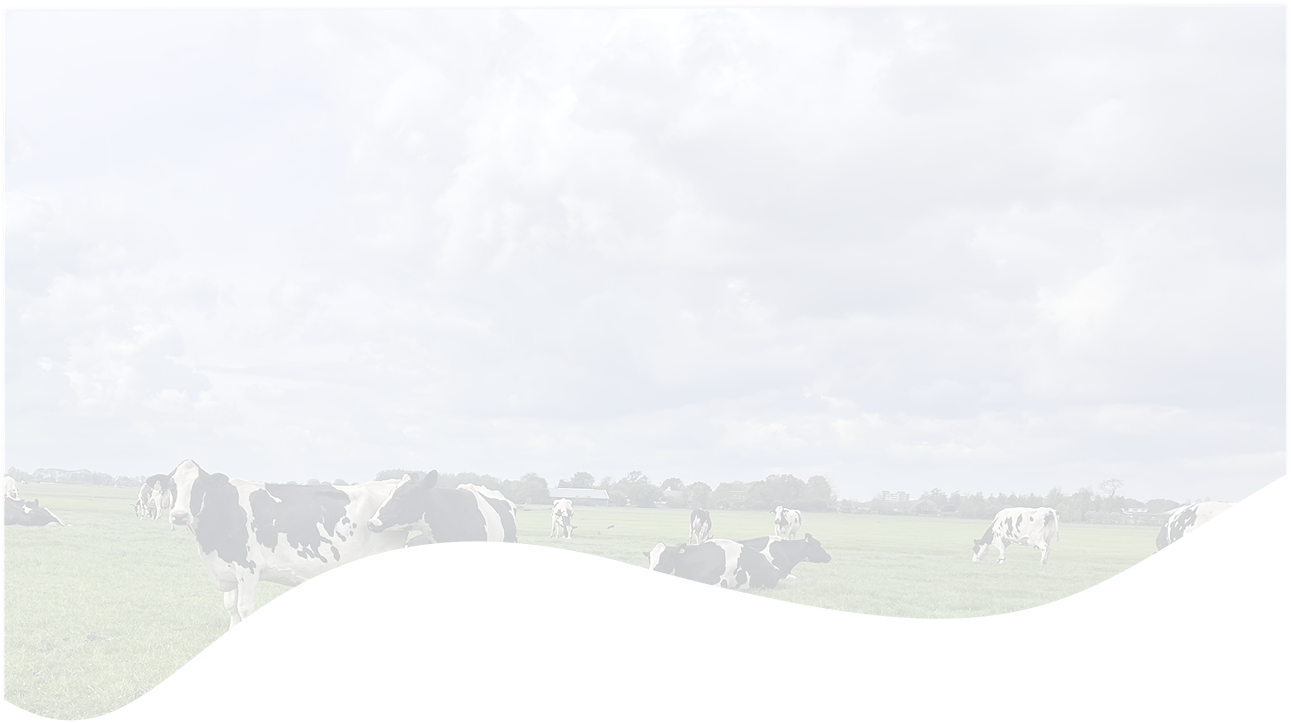
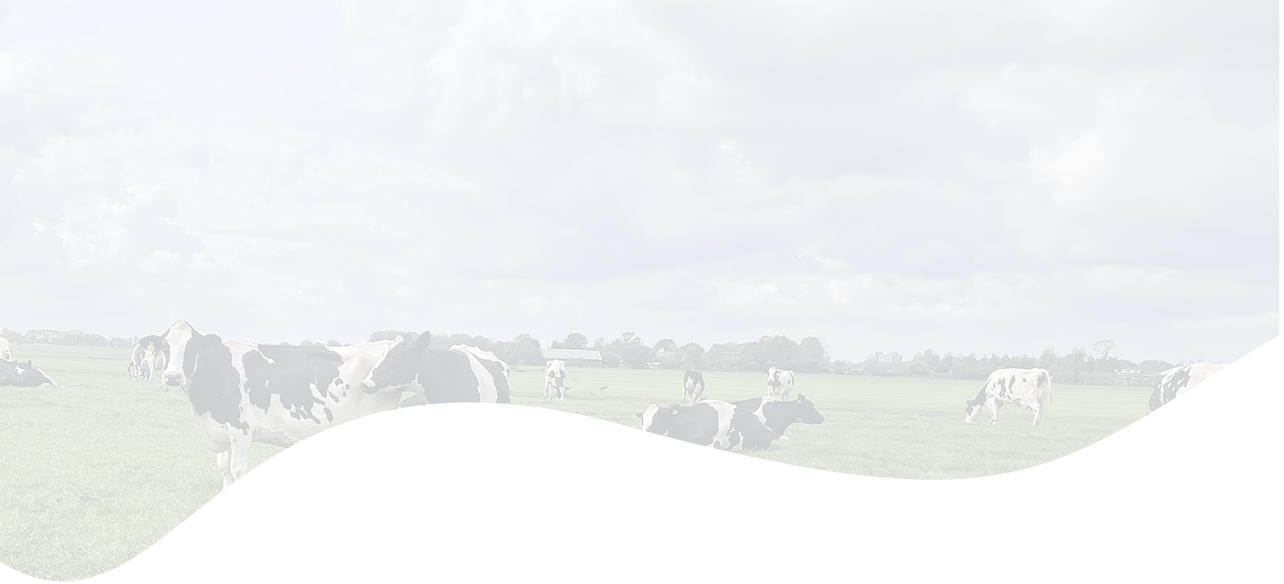
bezig-met-3e-section

Changed region(s): [[0.0, 0.5548, 0.9346, 1.0], [0.6542, 0.6781, 0.6854, 0.7089], [0.0, 0.9247, 0.0312, 0.9555]]

diff --git a/style.css b/style.css
@@ -25,24 +25,26 @@ body {
 
 /* header */
 .header {
-  position: absolute;
-  inset: 0 0 auto 0;
-  z-index: 10;
+  position: fixed;
+  top: 0;
+  left: 0;
+  width: 100%;
 
-  background-image: url("images/header-back.png");
-  background-repeat: no-repeat;
-  background-position: center;
-  background-size: 110% auto;
+  z-index: 1000;
 
   display: flex;
   justify-content: space-between;
-  align-items: flex-start;
+  align-items: center;
 
-  padding: 2rem 6vw;
+  padding: 1.5rem 6vw;
+
+  background-image: url("images/header-back.png");
+  background-size: cover;
+  background-position: center;
 }
 
 .logo {
-  width: clamp(8rem, 13vw, 12rem);
+  width: clamp(5rem, 10vw, 9rem);
   height: auto;
 }
 
@@ -82,30 +84,26 @@ body {
 .gedaanVisie {
   position: relative;
   min-height: 48rem;
+  padding: 10rem 15rem 0 10rem;
 
-  padding: 10rem 10vw 5rem;
-
-  background-image:
-    linear-gradient(rgba(255, 255, 255, 0.55), rgba(255, 255, 255, 0.55)),
-    url("images/landings-1.png");
+  background-image: url("images/landings-1.png");
+  background-size: 100% auto;
   background-repeat: no-repeat;
-  background-size: cover;
-  background-position: center top;
-
+  background-position: bottom center;
   overflow: hidden;
+  z-index: 2;
 }
 
-.gedaanVisie > p,
+.grutto-content p, .grutto-content h2, .gedaanVisie > p,
 .gedaanVisie > h1 {
   margin: 0;
   margin-left: 8vw;
-
   color: var(--color-blue);
   font-family: var(--font-title);
   font-style: italic;
 }
 
-.gedaanVisie > p {
+.subtitel p, .maatregelen > .subtitel , .gedaanVisie > p, .grutto-content p {
   font-size: 1.05rem;
   font-weight: 500;
 }
@@ -114,19 +112,26 @@ body {
   font-size: 1.8rem;
   font-weight: 900;
 }
+.maatregelen > h2 {
+ font-size: 1.6rem;
+  font-weight: 900;
+  color: var(--color-blue);
+}
 
 /* wolkenrij */
+
 .kennisWolken {
   display: flex;
   justify-content: space-between;
   align-items: flex-start;
-
-  gap: 3rem;
+  gap: 2rem;
   margin-top: 4rem;
+  padding-left: 5rem;
 }
 
 .kennisWolk {
-  width: clamp(14rem, 20vw, 21rem);
+  width: clamp(10rem, 26vw, 16rem);
+  position: relative;
 
   display: flex;
   flex-direction: column;
@@ -137,37 +142,59 @@ body {
 }
 
 .wolk-tekst {
-  position: relative;
+  position: absolute;
+  top: -2rem;
+  left: 50%;
   z-index: 2;
 
-  width: 120%;
-  min-height: 8rem;
-  margin-bottom: -3rem;
+  width: 105%;
+  min-height: 9rem;
 
-  display: flex;
-  flex-direction: column;
-  justify-content: center;
-  align-items: center;
+  transform: translateX(-50%);
+
+  display: grid;
+  grid-template-rows: 1fr auto 1fr;
+
+  padding: 1rem 2rem;
 
   background-image: url("images/real-cloud-2-wit.png");
   background-repeat: no-repeat;
   background-position: center;
-  background-size: contain;
+  background-size: 120%;
 }
+
+.kennisWolk img {
+  width: 85%;
+  display: block;
+  margin-top: 4rem;
+}
+
+
 
 .wolk-tekst p {
   margin: 0;
-  font-family: var(--font-main);
-  font-weight: 700;
-  line-height: 1.1;
+  color: var(--color-blue);
+}
+
+.wolk-tekst p:first-child {
+  justify-self: start;
+  align-self: end;
 }
 
 .groter-tekst-in-de-wolk {
+  justify-self: center;
+  align-self: end;
+ text-wrap: nowrap;
+
   font-family: var(--font-title);
   font-size: clamp(2.2rem, 3vw, 3.4rem);
   font-weight: 900;
   font-style: italic;
-  text-shadow: 0.08em 0.08em 0 rgba(23, 59, 143, 0.18);
+}
+
+.wolk-tekst p:last-child {
+  justify-self: end;
+  align-self: start;
 }
 
 .kennisWolk img {
@@ -176,10 +203,12 @@ body {
 }
 
 /* product button */
+.maatregelen a,
+.grutto-content a,
 .gedaanVisie > a {
   position: absolute;
   right: 12vw;
-  bottom: 3.5rem;
+  margin-top: 1rem;
 
   display: inline-flex;
   align-items: center;
@@ -199,4 +228,110 @@ body {
   font-family: var(--font-main);
   font-weight: 800;
   text-decoration: none;
+}
+
+
+/*grutto vliegt*/
+
+.grutto-section {
+  min-height: 52rem;
+  padding: 13rem 12vw 27rem 12vw;
+  margin-top: -15rem;
+  display: flex;
+  align-items: center;
+  justify-content: center;
+  gap: 8vw;
+  min-height: 50rem;
+  background-image: url("images/landings-2.png");
+  background-repeat: no-repeat;
+  background-size: cover;
+  background-position: center;
+  background-position-y: -2rem;
+  z-index: 3;
+}
+
+.grutto-vogel {
+  width: clamp(22rem, 38vw, 38rem);
+  height: auto;
+  transform: translateY(4rem);
+}
+
+.grutto-content {
+  max-width: 28rem;
+  margin-top: 3rem;
+}
+
+.subtitel {
+  margin: 0;
+
+  color: var(--color-blue);
+  font-family: var(--font-title);
+  font-weight: 800;
+  font-style: italic;
+}
+
+.grutto-content h2 {
+  margin: 0 0 2rem;
+  color: var(--color-blue);
+  font-family: var(--font-title);
+  font-size: clamp(1.5rem, 2vw, 2rem);
+  font-style: italic;
+}
+
+.grutto-content p, .grutto-content h2 {
+  margin-left:0;
+  color: var(--color-blue);
+}
+
+.grutto-content p{
+    color: black;
+}
+
+.maatregelen {
+  padding: 6rem 12vw;
+  background-image: url("images/landings-3.png");
+  background-repeat: no-repeat;
+  background-size: cover;
+  background-position: center top;
+}
+
+.maatregelen-kaarten {
+  display: flex;
+  justify-content: space-between;
+  align-items: flex-start;
+  gap: 4rem;
+}
+
+.maatregel-kaart {
+  width: clamp(14rem, 22vw, 20rem);
+  text-align: center;
+}
+
+.maatregel-kaart h3 {
+  margin: 0;
+  color: var(--color-blue);
+  font-family: var(--font-title);
+  font-size: clamp(1rem, 1.5vw, 2rem);
+  font-style: italic;
+  line-height: 0.95;
+}
+
+.kaart-subtitel {
+  margin: 0.5rem 0 1rem;
+  color: var(--color-blue);
+  font-weight: 700;
+  font-size: 0.85rem;
+}
+
+.maatregel-kaart img {
+  width: 85%;
+  display: block;
+  margin: 0 auto 1.5rem;
+}
+
+.maatregel-kaart > p:last-child {
+  text-align: left;
+  font-weight: 700;
+  line-height: 1.25;
+  margin: 0;
 }

diff --git a/index.html b/index.html
@@ -21,7 +21,8 @@
 
     <main>
         <section class="gedaanVisie" id="resultaten">
-            <p>Rond Amsterdam, voor Amsterdam</p>
+
+            <p class="subtitel">Rond Amsterdam, voor Amsterdam</p>
             <h1>Boeren van Amstel</h1>
 
             <div class="kennisWolken">
@@ -57,26 +58,73 @@
         </section>
 
         <section class="grutto-section" id="kaart">
-            <img src="/images/landings-2.png" alt="" class="section-bg">
+            <img class="grutto-vogel" src="images/Grutto-links.png" alt="vliegende grutto">
 
             <div class="grutto-content">
-                <p>Grutto zegt:</p>
-                <h1>Welkom in het Amstelgebied!</h1>
+                <p class="subtitel">Grutto zegt:</p>
+                <h2>Welkom in het Amstelgebied!</h2>
+
                 <p>
                     Ik woon met meer dan 30 soorten dieren en planten in de slootranden
                     ergens in de Rondehoep. Wil je met mij vliegen naar de Rondehoep?
                 </p>
-                <a href="#" class="button">Ontdek de kaart</a>
+
+                <p>Vlieg mee met mij!”</p>
+
+                <a href="#kaart">Ontdek de kaart</a>
             </div>
         </section>
 
         <section class="maatregelen">
-            <!-- 3 kaarten: kruidenrijke slootranden / plas-drasgebieden / meer kuikens -->
+            <p class="subtitel">Boeren, natuur en bewoners</p>
+            <h2>Jouw bijdrage maakt verschil</h2>
+
+            <div class="maatregelen-kaarten">
+                <article class="maatregel-kaart">
+                    <h3>Kruidenrijke slootranden</h3>
+                    <p class="kaart-subtitel">met verschillende grassen, bloemen en kruiden</p>
+                    <img src="images/kruidenrijke-slootranden.png" alt="kruidenstrook">
+                    <p>Wij zaaien slootranden in met verschillende grassen, bloemen en kruiden. Zo trekken we meer
+                        insecten aan en vergroten we de biodiversiteit rondom onze boerderijen.</p>
+                </article>
+
+                <article class="maatregel-kaart">
+                    <h3>Plas-drasgebieden</h3>
+                    <p class="kaart-subtitel">makkelijk voedsel voor dieren</p>
+                    <img src="images/plas-dras-gebieden.png" alt="blauwe vlinder">
+                    <p>Wij verhogen tijdelijk het waterpeil, zodat weidevogels makkelijker voedsel kunnen vinden.
+                        Tegelijk ontstaat een leefgebied voor vogels, insecten en andere dieren.</p>
+                </article>
+
+                <article class="maatregel-kaart">
+                    <h3>Meer kuikens</h3>
+                    <p class="kaart-subtitel">veilig in Amstelland</p>
+                    <img src="images/meer-kuikens.png" alt="kleine grutto">
+                    <p>Wij maaien onze graslanden pas na het broedseizoen. Zo krijgen nesten de kans om uit te komen en
+                        kunnen jonge kuikens veilig opgroeien.</p>
+                </article>
+            </div>
+
+            <a href="https://boerenvanamstel.nl/ons-verhaal/">Steun de Grutto</a>
+
+            <div class="donateurs"> 
+                <h3>Trots op onze top donateurs van deze maand</h3> 
+                <div class="donateurs-logo">
+                    <img src="images/tony's.png" alt="tony-choco-logo"> 
+
+                </div>
+                
+                <div class="2e-donateurs"> 
+                    <img src="images/dopper.png" alt="dopper-logo"> 
+                    <img src="images/ns.png" alt="ns-logo"> 
+                </div> 
+                <div class="3e donateurs"> 
+                    <img src="images/capgemini.png" alt="capgemini-logo"> 
+                    <img src="images/Kruidvat.png" alt="kruidvat-logo"> 
+                </div> 
+            </div> 
         </section>
 
-        <section class="donateurs">
-            <!-- logo’s -->
-        </section>
 
         <section class="cappuccino">
             <!-- cappuccino reis -->
